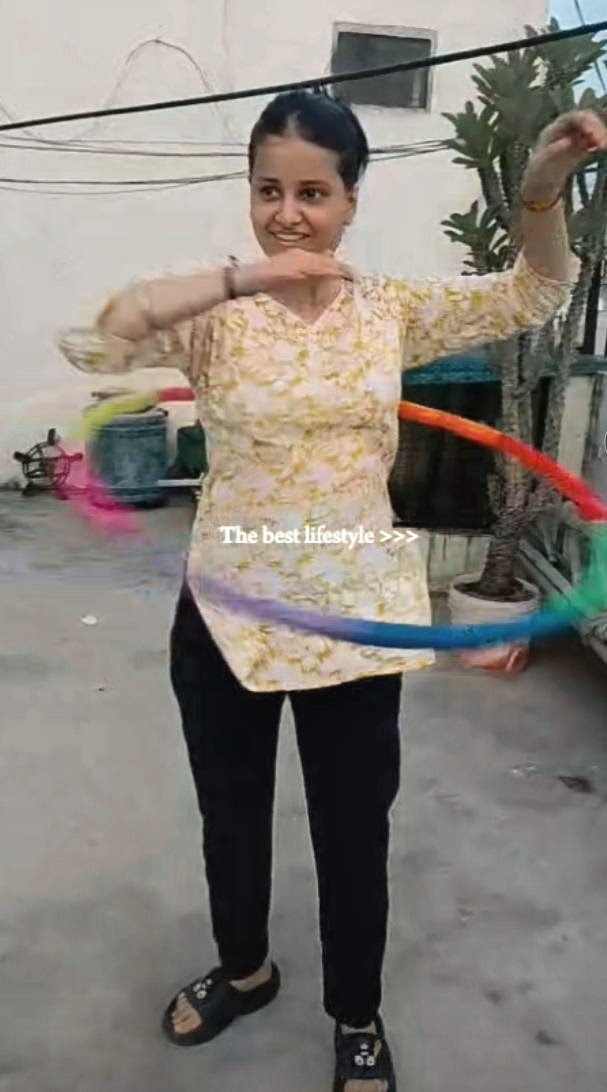
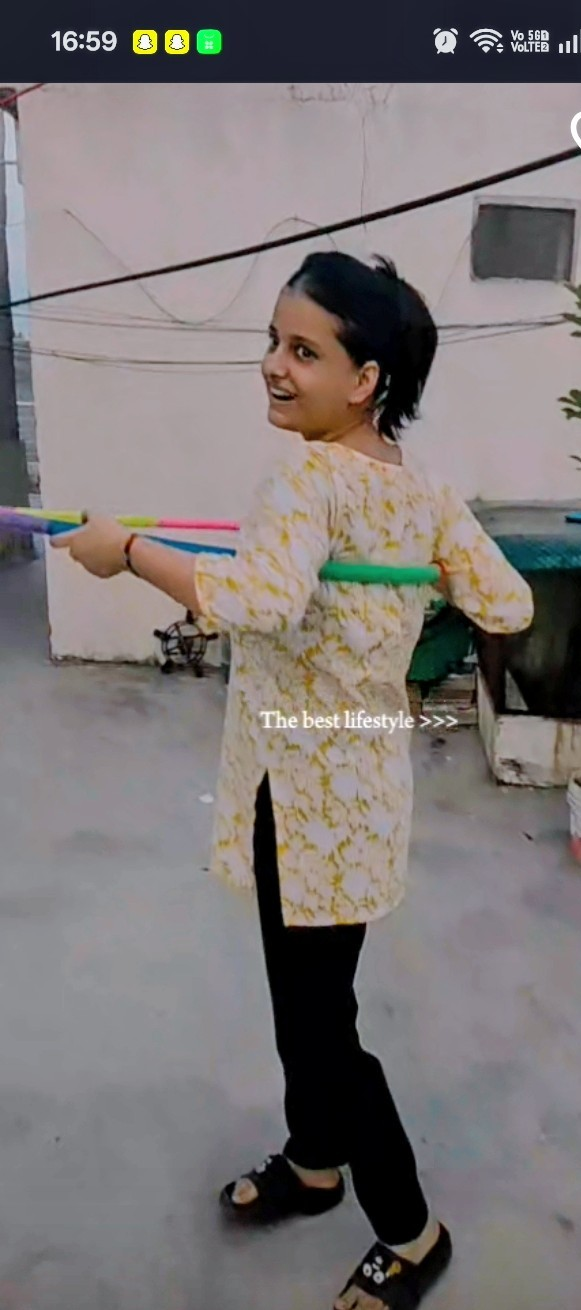
Update birthday QR and webpage

diff --git a/generate_qr.py b/generate_qr.py
@@ -1,0 +1,20 @@
+import qrcode
+
+# Public GitHub Pages URL of the birthday webpage
+URL = "https://negirahul1729.github.io/birthday/birthday.html"
+
+# Create a phone-friendly QR code
+qr = qrcode.QRCode(
+    version=None,
+    error_correction=qrcode.constants.ERROR_CORRECT_H,
+    box_size=12,
+    border=4,
+)
+qr.add_data(URL)
+qr.make(fit=True)
+
+img = qr.make_image(fill_color="black", back_color="white")
+img.save("birthday-qr.png")
+
+print("QR code generated successfully: birthday-qr.png")
+print("URL:", URL)
